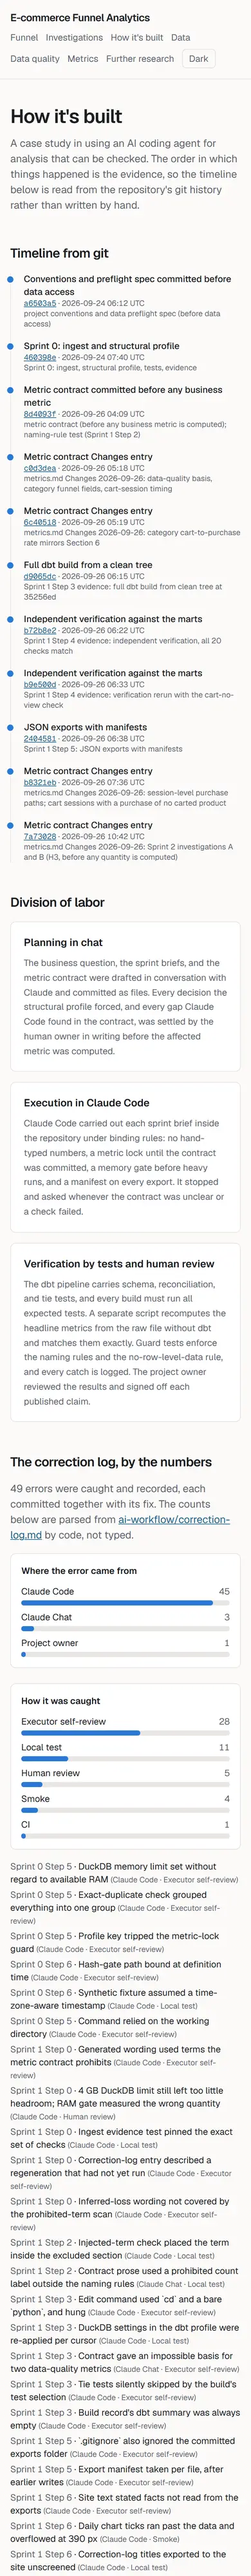
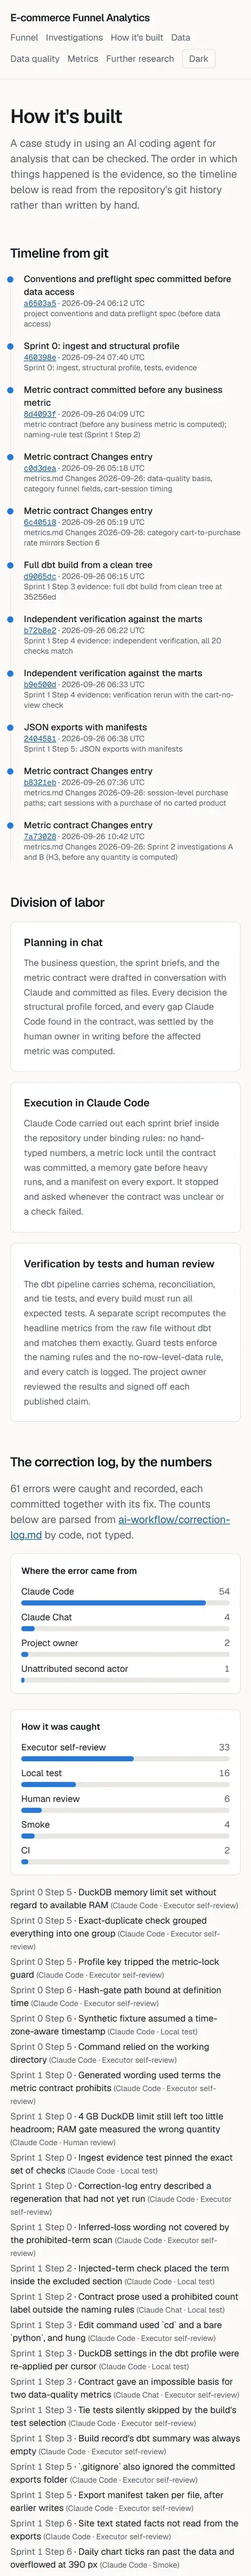
v1.1.4: refresh workflow.json alone (option a); closing-report note on /data's contract-change list
- funnel.export --only workflow.json: rewrites that one file; no warehouse, no other export touched
- workflow.json: 61 correction-log entries, including Unattributed second actor 1 and CI 2;
  every other export byte-identical to the committed version (regression check)
- test_exports_share_one_clean_manifest narrowed: the eight full-run exports share one clean
  manifest; workflow.json has its own (content checked against the correction log)
- correction log: the CI-caught closing entry reworded so the classifier files it under CI
- closing report: /data lists 4 of the 6 dated Changes entries by design under option D
- smoke: /how-its-built shows the exported total and the new origin; local 49/49; 390 px PASS
- records: H8 for PR #18 (refresh not in the merge, so not deployed); the owner's decision

pytest: 230 passed (pytest_exit_code=0)

Changed region(s): [[0.0308, 0.6562, 0.9538, 1.0], [0.8615, 0.6562, 0.9231, 0.7188]]

diff --git a/analysis/funnel/closing.py b/analysis/funnel/closing.py
@@ -235,7 +235,16 @@ def _md_cell(text: str) -> str:
     return text.replace("|", "\\|")
 
 
-def render_report(template: str, bound: dict[str, Any], figures: dict[str, dict[str, Any]]) -> str:
+def site_change_counts(exports: dict[str, dict[str, Any]], contract_text: str) -> dict[str, int]:
+    """Changes entries listed on /data (data_story.json) and dated entries in the contract (docs/metrics.md)."""
+    from funnel.export import changes_entries
+
+    return {"published_changes": len(exports["data_story.json"]["changes_entries"]),
+            "contract_changes": len(changes_entries(contract_text))}
+
+
+def render_report(template: str, bound: dict[str, Any], figures: dict[str, dict[str, Any]],
+                  counts: dict[str, int] | None = None) -> str:
     findings = ["| # | Finding | Tier |", "|---|---|---|"]
     findings += [f"| {f['id']} | {_md_cell(render(f['text'], figures))} | {f['tier']} |" for f in bound["findings"]]
     questions = [f"**{bound['question_1']['lead']}** {render(bound['question_1']['text'], figures)}", ""]
@@ -254,13 +263,15 @@ def render_report(template: str, bound: dict[str, Any], figures: dict[str, dict[
                          f"[{ev['label']}]({href}) |")
     sources = sorted({f"`{v['source']}`: `{v['field']}`" for v in figures.values()})
     return (template.replace("{{findings}}", "\n".join(findings)).replace("{{questions}}", "\n".join(questions))
-            .replace("{{sources}}", "; ".join(sources)))
+            .replace("{{sources}}", "; ".join(sources))
+            .replace("{{published_changes}}", str((counts or {}).get("published_changes", "?")))
+            .replace("{{contract_changes}}", str((counts or {}).get("contract_changes", "?"))))
 
 
 # ---------- the run ----------
 
 def load_exports() -> dict[str, dict[str, Any]]:
-    names = sorted({f.source for f in FIGURES})
+    names = sorted({f.source for f in FIGURES} | {"data_story.json"})
     return {n: json.loads((WEB_DATA / n).read_text(encoding="utf-8")) for n in names}
 
 
@@ -276,7 +287,8 @@ def build(exports: dict[str, dict[str, Any]], content_text: str, template: str) 
     figures = resolve_figures(exports)
     bound = bind_content(parse_content(content_text), figures)
     naming_check(bound, figures)
-    report = render_report(template, bound, figures)
+    report = render_report(template, bound, figures,
+                           site_change_counts(exports, (REPO_ROOT / "docs" / "metrics.md").read_text(encoding="utf-8")))
     export = {
         "source": {"content": "ai-workflow/closing-content.md",
                    "content_sha256": hashlib.sha256(content_text.encode("utf-8")).hexdigest(),

diff --git a/analysis/tests/test_export.py b/analysis/tests/test_export.py
@@ -160,3 +160,26 @@ def test_second_labeled_entry_on_a_date_keeps_the_first_entrys_keys(metrics_text
     # The Sprint 3 entry (approved at H3) is the second labeled entry dated 2026-09-26.
     assert before["2026-09-26-2_item_4"] == "Viewing sessions with an observed purchase in the category (%)"
     assert before["2026-09-26_item_9"].startswith("Carted products with no observed purchase in the session")
+
+
+def test_only_workflow_writes_that_one_file(tmp_path, monkeypatch):
+    """Owner decision (v1.1.4, option (a)): refreshing workflow.json touches no other export."""
+    from funnel import export
+
+    monkeypatch.setattr(export, "WEB_DATA", tmp_path)
+    monkeypatch.setattr(export, "require_dataset_hash_match", lambda: "a" * 64)
+    monkeypatch.setattr(export, "last_full_build", lambda sha: {"git_commit_sha": "b" * 40})
+    export.main(["--only", "workflow.json"])
+    assert [p.name for p in tmp_path.iterdir()] == ["workflow.json"]
+    with pytest.raises(SystemExit, match="needs the full export"):
+        export.main(["--only", "kpis.json"])
+
+
+def test_committed_workflow_counts_every_correction_log_entry():
+    """/how-its-built counts the whole correction log: refresh with python -m funnel.export --only workflow.json."""
+    import json
+
+    from funnel.export import CORRECTION_LOG, WEB_DATA, parse_correction_log
+
+    committed = json.loads((WEB_DATA / "workflow.json").read_text(encoding="utf-8"))["correction_log"]
+    assert committed == json.loads(json.dumps(parse_correction_log(CORRECTION_LOG.read_text(encoding="utf-8"))))

diff --git a/analysis/funnel/export.py b/analysis/funnel/export.py
@@ -14,6 +14,7 @@ independent verification of analysis A is missing, on another dataset, or has a 
 
 from __future__ import annotations
 
+import argparse
 import json
 import os
 import re
@@ -583,7 +584,29 @@ def investigation_later_purchases(con: duckdb.DuckDBPyConnection, dataset_sha: s
     }
 
 
-def main() -> None:
+# Exports that can be written alone, without the warehouse or verify.json (owner decision, v1.1.4, option (a)):
+# refreshing one of them leaves every other committed export byte-identical.
+STANDALONE = {"workflow.json": workflow_record}
+
+
+def write_only(name: str) -> None:
+    """Write one standalone export with its own manifest and the latest full build; touch no other file."""
+    if name not in STANDALONE:
+        sys.exit(f"HALT: --only supports {sorted(STANDALONE)}; {name!r} needs the full export.")
+    sha = require_dataset_hash_match()
+    build = last_full_build(sha)
+    payload = STANDALONE[name]()
+    write_json(WEB_DATA / name, {"manifest": manifest(SCRIPT, sha), "pipeline_build": build, **payload})
+    print(f"Wrote {WEB_DATA / name} (only)")
+
+
+def main(argv: list[str] | None = None) -> None:
+    parser = argparse.ArgumentParser(description="Write the site's JSON exports.")
+    parser.add_argument("--only", help="write only this standalone export (e.g. workflow.json)")
+    args = parser.parse_args(argv)
+    if args.only:
+        write_only(args.only)
+        return
     sha = require_dataset_hash_match()
     build = last_full_build(sha)
     if not WAREHOUSE.exists():

diff --git a/analysis/tests/test_export_files.py b/analysis/tests/test_export_files.py
@@ -124,7 +124,18 @@ def test_later_purchases_export_is_scoped_resolved_and_independently_verified():
     assert later["independent_verification"]["all_match"] is True
 
 
+# Exports refreshed on their own (funnel.export --only, owner decision v1.1.4, option (a)) carry their own manifest.
+STANDALONE_EXPORTS = ("workflow.json",)
+
+
 def test_exports_share_one_clean_manifest():
-    manifests = [json.loads((WEB_DATA / name).read_text(encoding="utf-8"))["manifest"] for name in EXPORTS]
-    assert all(m == manifests[0] for m in manifests), "all exports come from one run"
+    """The full-run exports share one clean manifest; a standalone export has its own, on the same dataset, and is
+    regenerated from the clean tree in its own commit (its content is checked against the correction log in
+    test_export.py)."""
+    full = [n for n in EXPORTS if n not in STANDALONE_EXPORTS]
+    manifests = [json.loads((WEB_DATA / name).read_text(encoding="utf-8"))["manifest"] for name in full]
+    assert all(m == manifests[0] for m in manifests), "all full-run exports come from one run"
     assert manifests[0]["git_worktree_dirty"] is False
+    for name in STANDALONE_EXPORTS:
+        m = json.loads((WEB_DATA / name).read_text(encoding="utf-8"))["manifest"]
+        assert m["script"] == "funnel.export" and m["dataset_sha256"] == manifests[0]["dataset_sha256"], name

diff --git a/ai-workflow/sprint-3-verification.md b/ai-workflow/sprint-3-verification.md
@@ -21,6 +21,8 @@ Every decision below was made by the project owner (Eddy Mkwambe). Claude Code c
 | 2026-09-26 | Owner decision | Formalize the provenance convention in CLAUDE.md: a message counts as the owner's own decision when it begins with "My decision:" or "My H&lt;n&gt; decision:" (or the owner confirms in their own words); anything else pasted is treated as a draft until the owner confirms. | Owner message in the Claude Code session, 2026-09-26, verbatim: "Also formalize the provenance convention in CLAUDE.md in the Step 3 PR: a message counts as my own decision when it begins with "My decision:" or "My H&lt;n&gt; decision:" (or I confirm in my own words); anything else pasted is treated as a draft until I confirm." `CLAUDE.md`, "Owner decisions: provenance", in the Step 3 PR |
 | 2026-09-26 | H8 | PR #16 merged by the owner. | Owner message beginning "My decision:" (it read "mergedAt <timestamp>"). Claude Code found the PR still OPEN at the first check and did not start Step 4; the second check gave `{"state":"MERGED","mergedAt":"2026-09-27T01:25:35Z","merge":"48b65ebf657f5796d82df08f943281fbf315f2bb"}` |
 | 2026-09-26 | H6 | Merged branch `sprint-3/step1-contract` deleted (`git branch -d` and `git push origin --delete`, no `-D`). | Owner message beginning "My decision:". Carried out by Claude Code: PR #15 verified MERGED; the head `8d10d7b` is an ancestor of `origin/main` locally and remotely; `git push origin --delete` gave "[deleted]", and `git branch -d` gave "Deleted branch sprint-3/step1-contract (was 8d10d7b)" with exit 0. `git ls-remote --heads origin sprint-3/step1-contract` returns nothing |
+| 2026-09-27 | H8 | PR #18 (v1.1.4 cosmetic patch) merged by the owner via gh. | Owner message: "PR #18 merged by me via gh (state MERGED, mergedAt 2026-09-27T22:47:41Z)". Verified by Claude Code with `gh pr view 18`: `{"state":"MERGED","mergedAt":"2026-09-27T22:47:41Z","merge":"461d90a197c90c670f03e38587d7cee4465a6173"}`. The option (a) `workflow.json` refresh was **not** in the merge (the merged head was `55e754f`; `main`'s `workflow.json` dated from v1.1.2, with 49 entries), so nothing was deployed, as the owner instructed |
+| 2026-09-27 | Owner decision (v1.1.4, workflow refresh) | Refresh `workflow.json` so `/how-its-built` counts every correction-log entry through this sprint, including the "Unattributed second actor" origin. Regression check: every export other than `workflow.json` must be byte-identical to the committed version. After the dry run showed that a full export can't meet that check, the owner chose option (a): refresh `workflow.json` only, in a new PR, with a closing-report note that `/data`'s contract-change list shows 4 of 6 entries by design under option D. Then deploy, smoke, tag v1.1.4, and stop for H9 on the home page, Further research, and How it's built. | Owner messages beginning "My decision:", 2026-09-27. Carried out: `funnel.export --only workflow.json` (memory gate 6.3 GB); against the committed files only `workflow.json` changed among the exports; the counts are 61 entries, including Unattributed second actor 1 and CI 2. An existing guard was narrowed as a consequence: `test_exports_share_one_clean_manifest` now requires one clean manifest across the eight full-run exports, and lets `workflow.json` carry its own (same dataset, regenerated from the clean tree in its own commit, content checked by `test_committed_workflow_counts_every_correction_log_entry`) |
 | 2026-09-27 | Owner decision (v1.1.4) | Cosmetic patch v1.1.4, to be completed before the H9 sign-off: navigation order (Funnel, Investigations, How it's built, Data, Data quality, Metrics, Further research); the questions page labeled "Further research" and titled "Questions for further research", with `/questions` kept and the home page's link text updated; the `/how-its-built` tile renamed "Verification by tests and human review", with the sentence "The project owner reviewed the results and signed off each published claim."; inline code rendered properly; readable evidence labels generated from the closing export. One PR; after the merge: deploy, smoke, tag v1.1.4. | Owner message beginning "My decision:", 2026-09-27 |
 | 2026-09-27 | H8 | PR #17 (the closing PR) merged by the owner via gh. | Owner message: "PR #17 merged by me via gh (state MERGED, mergedAt 2026-09-27T21:55:12Z)". Verified by Claude Code with `gh pr view 17`: `{"state":"MERGED","mergedAt":"2026-09-27T21:55:12Z","merge":"3b9eab16f99dde9b3b58b42b9edd25bfa5f06cdc"}`. Then deployed to production (`dpl_2aJawoWLN87sm2ytvMDMHyxhzeQx`, from `main` at `3b9eab1`); the production smoke passed 42/42 (smoke exit code 0; `ai-workflow/evidence/sprint-3/smoke_production_v1.1.3.txt`); tag `v1.1.3` on `3b9eab1`, pushed. H9 was requested and then deferred by the owner until v1.1.4 |
 | 2026-09-27 | Owner decision (closing) | close the project gracefully at v1.1.2. (1) Quarantine: commit all uncommitted changes to a new branch quarantine/unapproved-2026-09-27, noted as made by an unidentified actor (no trace in any Claude Code transcript or Claude desktop data) and not approved; push it; restore main's committed state. (2) Sprint 3: stop the ranking under option D — record in sprint-3-verification.md that the pre-registered rank-interval rule failed its synthetic-null calibration (F6); nothing is published; commit the escalation brief. (3) Write a closing report […] (4) Build a dedicated /questions page […] (5) Home page: "Project status: closed", the four headline findings, and a prominent link to /questions. One PR; stop for my merge. No new analysis runs. Follow-up decision: `ai-workflow/closing-content.md` is the owner's approved content for the closing report, the /questions export and page, and the home page; PR #17 is the one PR (the option A draft withdrawn); a `QUARANTINE.md` note on the quarantine branch; after the merge, deploy, run the production smoke test including /questions, and tag v1.1.3. | Owner messages beginning "My decision:", 2026-09-27. Carried out so far: step (1) was already complete under H4 (`884cae3`), and the note `QUARANTINE.md` was added as `8ed597a` (pushed); the option A draft was removed from `docs/metrics.md` (it was never approved) |

diff --git a/CLAUDE.md b/CLAUDE.md
@@ -81,7 +81,7 @@ vercel deploy --prod --cwd C:\Dev\ecommerce-funnel-analytics\web
 - `funnel.later_purchases` computes analysis B's bootstrap intervals, Kaplan–Meier, seed stability, and stop rules. It exits 3 when a stop rule fires.
 - `funnel.rankings` computes the Sprint 3 category ranking (empirical-Bayes estimates, user-clustered rank intervals, R3, sensitivities, and the negative control). It exits 3 when a stop rule or slow-down trigger fires.
 - `funnel.verify` recomputes every published figure from the Parquet file without dbt and compares them with the marts (it reads `later_purchases.json` and `rankings.json`, so it runs after `funnel.later_purchases` and `funnel.rankings`).
-- `funnel.export` writes the site's JSON; run it from a clean tree.
+- `funnel.export` writes the site's JSON; run it from a clean tree. `--only workflow.json` rewrites that one file (the correction-log and timeline record), with no warehouse access and no other export touched.
 - `funnel.closing` writes `docs/closing-report.md` and `web/public/data/closing.json` from the owner-approved `ai-workflow/closing-content.md`, binding every figure to an export field; it reads committed files only and stops on any mismatch. Run it from a clean tree.
 - Heavy runs (`build`, `verify`) take 10–25 minutes; run them one at a time, behind the memory gate, and monitor them.
 

diff --git a/CHANGELOG.md b/CHANGELOG.md
@@ -11,6 +11,8 @@ Entries up to v1.0.1 were reconstructed in Sprint 2 from the git history. Figure
 - The questions page is labeled "Further research" in the navigation and titled "Questions for further research"; `/questions` is unchanged, and the home page's links use the new name.
 - `/how-its-built`: the verification tile is "Verification by tests and human review", and it states that the project owner reviewed the results and signed off each published claim.
 - Inline code in exported text (for example `user_id` in question 3) renders as code, not literal backticks.
+- `/how-its-built` counts every correction-log entry through Sprint 3 and the closing, including the origin "Unattributed second actor": `workflow.json` was refreshed alone with the new `funnel.export --only workflow.json`, and every other export is byte-identical. A test now fails if `workflow.json` lags the correction log.
+- The closing report notes that `/data` lists only some of the contract's dated Changes entries, by design under option D; the counts are computed by `funnel.closing`.
 - Evidence links on `/questions` have readable labels ("See the evidence: …"), generated in `closing.json` by `funnel.closing`, not typed into the page.
 
 ## [1.1.3] — 2026-09-27

diff --git a/ai-workflow/correction-log.md b/ai-workflow/correction-log.md
@@ -538,7 +538,7 @@ All fixes below ship in the Sprint 0 evidence commit that adds this log's entrie
 - **Origin:** Claude Code (`analysis/funnel/closing.py`, `render_report`)
 - **What was produced:** `docs/closing-report.md` linked question 6's evidence as `https://github.com/.../blob/main/ai-workflow/escalations/2026-09-27-C-rankings-stop-rules.md`.
 - **What was wrong:** the brief reaches `main` only when this PR merges, so the link returned 404 on the PR. This is the same class of error as the README link in PR #7.
-- **How it was caught:** CI: the `docs-checks` link check on PR #17 (run 36352732338) failed with `[404]`.
+- **How it was caught:** in CI: the `docs-checks` link check on PR #17 (run 36352732338) failed with `[404]`.
 - **Fix:** the report links to the brief by relative path (`../ai-workflow/escalations/...`), which the link checker resolves in the branch. The `/questions` page keeps the absolute GitHub link, which resolves after the merge and isn't link-checked. Report regenerated in this commit.
 - **Guard added:** none new; the CI link check caught it as designed.
 

diff --git a/ai-workflow/closing-report-template.md b/ai-workflow/closing-report-template.md
@@ -50,7 +50,11 @@ Claude Code caught the mismatch at run reconciliation, when the run's recorded m
 - **Guards:** new run guards refuse a dirty working tree, and refuse marts without a gated build record (`funnel.provenance`).
 - **Records:** the correction log records the incident with the origin "Unattributed second actor". The escalation brief has the full timeline.
 
-## 6. Questions worth asking next
+## 6. A note on the site
+
+The list of metric-contract changes on `/data` shows {{published_changes}} of the {{contract_changes}} dated Changes entries in `docs/metrics.md`. This is by design under option D. The newer entries define the Sprint 3 ranking and record that it was stopped, and the site's exports weren't regenerated for them, because nothing from the ranking is published. The contract itself, rendered on `/metrics`, shows every entry.
+
+## 7. Questions worth asking next
 
 These are the questions this data can't answer, grouped by who can answer them. The same content, with a link to each question's evidence, is on the site at `/questions`.
 

diff --git a/docs/closing-report.md b/docs/closing-report.md
@@ -55,7 +55,11 @@ Claude Code caught the mismatch at run reconciliation, when the run's recorded m
 - **Guards:** new run guards refuse a dirty working tree, and refuse marts without a gated build record (`funnel.provenance`).
 - **Records:** the correction log records the incident with the origin "Unattributed second actor". The escalation brief has the full timeline.
 
-## 6. Questions worth asking next
+## 6. A note on the site
+
+The list of metric-contract changes on `/data` shows 4 of the 6 dated Changes entries in `docs/metrics.md`. This is by design under option D. The newer entries define the Sprint 3 ranking and record that it was stopped, and the site's exports weren't regenerated for them, because nothing from the ranking is published. The contract itself, rendered on `/metrics`, shows every entry.
+
+## 7. Questions worth asking next
 
 These are the questions this data can't answer, grouped by who can answer them. The same content, with a link to each question's evidence, is on the site at `/questions`.
 
